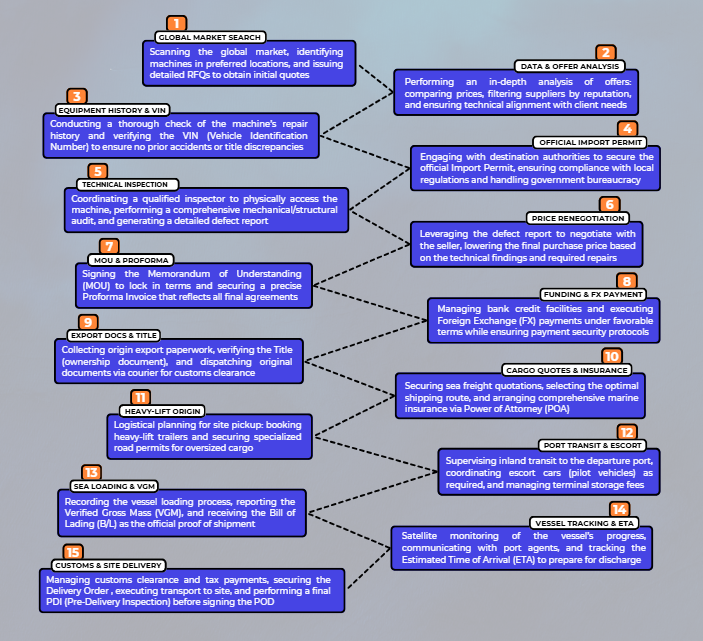
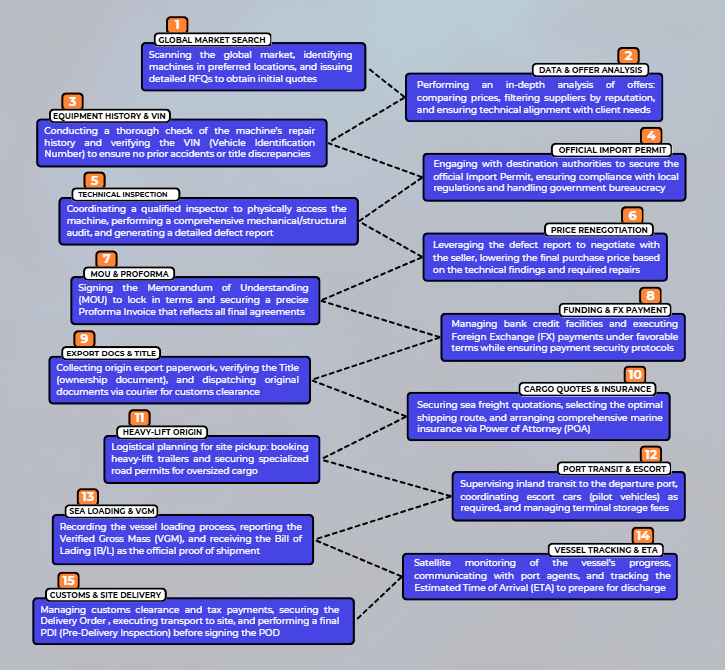
Assets: refresh process-15steps.png (v4 cache-bust)
Made-with: Cursor

Changed region(s): [[0.0299, 0.0, 0.9559, 0.9672]]

diff --git a/components/ProcessRealityIntro.tsx b/components/ProcessRealityIntro.tsx
@@ -7,7 +7,7 @@ import { useLanguage, tx } from "@/lib/useLanguage";
 import { t } from "@/lib/translations";
 
 /** עדכון קבצים ב־public/images — העלה גרסה כדי לפרוץ מטמון דפדפן */
-const PROCESS_15_STEPS_ASSET_VER = "3";
+const PROCESS_15_STEPS_ASSET_VER = "4";
 const EQS_3STEPS_ASSET_VER = "2";
 
 /** ככה נראה הרכש → „ובדרך אחרת“ + חץ + 5 שלבים + תמונת 3 השלבים — מיד אחרי הבעיה */